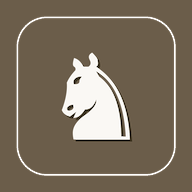
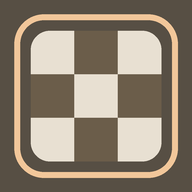
Add files via upload

diff --git a/index.html b/index.html
@@ -8,6 +8,9 @@
 <link rel="manifest" href="./manifest.webmanifest">
 <meta name="theme-color" content="#6b5d4a">
 <link rel="apple-touch-icon" href="./apple-touch-icon.png">
+<link rel="icon" type="image/svg+xml" href="./favicon.svg">
+<link rel="icon" type="image/png" sizes="32x32" href="./favicon-32.png">
+<link rel="icon" type="image/png" sizes="16x16" href="./favicon-16.png">
 <meta name="apple-mobile-web-app-capable" content="yes">
 <meta name="apple-mobile-web-app-status-bar-style" content="default">
 <meta name="apple-mobile-web-app-title" content="Chess Trainer">
@@ -74,9 +77,9 @@
   .coin{display:inline-block; width:14px; height:14px; border-radius:50%; border:1px solid var(--border); vertical-align:-2px;}
   .coin.white{background:#f2efe9;} .coin.black{background:#3a342c;}
   .res-w{color:var(--green); font-weight:600;} .res-l{color:var(--red);} .res-d{color:var(--muted);}
-  .tp-grid{display:grid; grid-template-columns:repeat(4,1fr); grid-auto-rows:1fr; gap:0.7rem; margin-top:0.4rem;}
+  .tp-grid{display:grid; grid-template-columns:repeat(4,1fr); gap:0.7rem; margin-top:0.4rem;}
   @media(max-width:600px){ .tp-grid{grid-template-columns:repeat(2,1fr);} }
-  .tp-tile{position:relative; border:1px solid var(--border); border-radius:14px; padding:0.9rem 0.6rem 0.7rem; text-decoration:none; color:#fff; display:flex; flex-direction:column; gap:0.15rem; height:100%; min-height:108px; box-sizing:border-box; cursor:pointer; text-align:center;}
+  .tp-tile{position:relative; border:1px solid var(--border); border-radius:14px; padding:0.9rem 0.6rem 0.7rem; text-decoration:none; color:#fff; display:flex; flex-direction:column; gap:0.15rem; height:120px; overflow:hidden; box-sizing:border-box; cursor:pointer; text-align:center;}
   .tp-tile:hover{filter:brightness(0.94);}
   .tp-tile .rank{position:absolute; top:7px; left:7px; width:23px; height:23px; border:1px solid rgba(255,255,255,0.7); border-radius:50%; display:flex; align-items:center; justify-content:center; font-size:0.64rem; font-weight:600;}
   .tp-tile .lbl{font-family:var(--display); font-size:1rem; font-weight:700; line-height:1.12;}
@@ -232,6 +235,17 @@
   .gmt-reason{font-size:0.9rem; color:var(--muted); line-height:1.5;}
   .gmt-foot{display:flex; gap:0.5rem; margin-top:0.8rem;}
   .gmt-foot button{flex:1;}
+  .top-row{display:grid; grid-template-columns:1fr 1.7fr; gap:0.95rem; align-items:start; margin-bottom:0.95rem;}
+  .top-row > .card{margin-bottom:0;}
+  @media(max-width:860px){ .top-row{grid-template-columns:1fr;} }
+  .stat-row{display:grid; grid-template-columns:repeat(5,1fr); gap:0.5rem; margin-bottom:0.8rem;}
+  @media(max-width:560px){ .stat-row{grid-template-columns:repeat(3,1fr);} }
+  .stat{border:1px solid var(--border); border-radius:12px; padding:0.5rem 0.35rem; text-align:center; background:var(--tile2);}
+  .stat .v{display:block; font-family:var(--display); font-size:1.25rem; font-weight:700; color:var(--board-dark); line-height:1.1;}
+  .stat .l{font-size:0.56rem; text-transform:uppercase; letter-spacing:.04em; color:var(--hint);}
+  .stat.sg{background:rgba(42,122,74,0.14);} .stat.sg .v{color:#2a7a4a;}
+  .stat.sb{background:rgba(42,95,143,0.14);} .stat.sb .v{color:#2a5f8f;}
+  .stat.sp{background:rgba(212,104,32,0.14);} .stat.sp .v{color:#b4561a;}
 </style>
 </head>
 <body>
@@ -249,6 +263,7 @@
   </header>
 
   <!-- RATED GAMES -->
+  <div class="top-row">
   <!-- TODAY'S TRAINING -->
   <section class="card" id="sec-ttp">
     <h2><span class="dot" id="ttp-dot"></span> Today's Training</h2>
@@ -258,6 +273,29 @@
     </div>
     <div class="ttp-list" id="ttp-list"></div>
   </section>
+
+  <!-- PROFILE & RATINGS -->
+  <section class="card" id="sec-ratings">
+    <h2><span class="dot" id="pr-dot"></span> Profile &amp; Ratings</h2>
+    <p class="tile-msg" id="pr-msg">Connect your Lichess token to load your stats.</p>
+    <div id="pr-loaded" class="hide">
+      <div class="stat-row">
+        <div class="stat"><span class="v" id="elo-cl">—</span><span class="l">Classical</span></div>
+        <div class="stat sg"><span class="v" id="elo-pz">—</span><span class="l">Puzzle</span></div>
+        <div class="stat sb"><span class="v" id="st-acc">—</span><span class="l">Accuracy</span></div>
+        <div class="stat"><span class="v" id="st-bl">—</span><span class="l">Blunder score</span></div>
+        <div class="stat sp"><span class="v" id="st-cp">—</span><span class="l">CP loss</span></div>
+      </div>
+      <div class="chips" id="rg-chips">
+        <span class="chip off" data-m="rating"><span class="sw" style="background:#6b5d4a"></span>Rating</span>
+        <span class="chip" data-m="accuracy"><span class="sw" style="background:#2a5f8f"></span>Accuracy</span>
+        <span class="chip off" data-m="cp"><span class="sw" style="background:#c0321a"></span>CP loss</span>
+        <span class="chip off" data-m="blunder"><span class="sw" style="background:#7a3a8a"></span>Blunder score</span>
+      </div>
+      <div class="chart-box" style="height:400px"><canvas id="rg-chart" role="img" aria-label="Per-game metrics">Per-game rating, accuracy and error metrics.</canvas></div>
+    </div>
+  </section>
+  </div>
 
   <!-- GM FOCUS / GMT TRAINER -->
   <div class="gmt-overlay" id="gmt-overlay">
@@ -292,19 +330,9 @@
   </div>
 
   <section class="card" id="sec-rg">
-    <h2><span class="dot" id="rg-dot"></span> Rated Games<span class="elo-mini" id="rg-elo">
-      <span class="em"><span class="emn" id="elo-cl">—</span><span class="eml">Classical</span></span>
-      <span class="em"><span class="emn" id="elo-pz">—</span><span class="eml">Puzzle</span></span>
-    </span></h2>
+    <h2><span class="dot" id="rg-dot"></span> Rated Games</h2>
     <p class="tile-msg" id="rg-msg">Connect your Lichess token to load your games.</p>
     <div id="rg-loaded" class="hide">
-      <div class="chips" id="rg-chips">
-        <span class="chip off" data-m="rating"><span class="sw" style="background:#6b5d4a"></span>Rating</span>
-        <span class="chip" data-m="accuracy"><span class="sw" style="background:#2a5f8f"></span>Accuracy</span>
-        <span class="chip off" data-m="cp"><span class="sw" style="background:#c0321a"></span>CP loss</span>
-        <span class="chip off" data-m="blunder"><span class="sw" style="background:#7a3a8a"></span>Blunder score</span>
-      </div>
-      <div class="chart-box" style="height:400px"><canvas id="rg-chart" role="img" aria-label="Per-game metrics">Per-game rating, accuracy and error metrics.</canvas></div>
       <div class="rg-wrap">
         <table class="rg" id="rg-table"><thead><tr>
           <th data-c="date">Date</th><th data-c="color">Col</th><th data-c="opp">Opponent</th>
@@ -1310,6 +1338,15 @@ function meSide(g){
   return { isWhite, me:isWhite?pw:pb, opp:isWhite?pb:pw };
 }
 
+function updateStatPills(){
+  const acc=document.getElementById("st-acc"), bl=document.getElementById("st-bl"), cp=document.getElementById("st-cp");
+  let a=null;
+  for(const x of prGames){ const me=meSide(x).me; if(me&&me.analysis){ a=me.analysis; break; } }
+  if(acc) acc.textContent=a&&a.accuracy!=null?a.accuracy+"%":"—";
+  if(bl)  bl.textContent=a?(3*(a.blunder||0)+2*(a.mistake||0)+1*(a.inaccuracy||0)):"—";
+  if(cp)  cp.textContent=a&&a.acpl!=null?a.acpl:"—";
+}
+
 async function loadRatings(user){
   try{
     const u=await (await liFetch(`https://lichess.org/api/user/${encodeURIComponent(user)}`)).json();
@@ -1318,6 +1355,8 @@ async function loadRatings(user){
     const ce=document.getElementById("elo-cl"), pe=document.getElementById("elo-pz");
     if(ce) ce.textContent=cl!=null?cl:"—";
     if(pe) pe.textContent=pz!=null?pz:"—";
+    const prL=document.getElementById("pr-loaded"), prM=document.getElementById("pr-msg");
+    if(prL)prL.classList.remove("hide"); if(prM)prM.classList.add("hide");
   }catch(e){}
 }
 
@@ -1332,8 +1371,10 @@ async function loadGamesData(user){
     if(!res.ok) throw new Error("HTTP "+res.status);
     const text=await res.text();
     prGames=text.trim().split("\n").filter(Boolean).map(l=>JSON.parse(l));
-    renderRatedGames(); buildGamesChart(); renderOpeningExplorer();
+    renderRatedGames(); buildGamesChart(); renderOpeningExplorer(); updateStatPills();
     msg.classList.add("hide"); loaded.classList.remove("hide"); dot.className="dot ok";
+    const prL=document.getElementById("pr-loaded"), prM=document.getElementById("pr-msg");
+    if(prL)prL.classList.remove("hide"); if(prM)prM.classList.add("hide");
   }catch(e){
     dot.className="dot err"; loaded.classList.add("hide"); msg.classList.remove("hide");
     msg.textContent = navigator.onLine ? ("Couldn't load games ("+e.message+").") : "Offline — connect to load your games.";